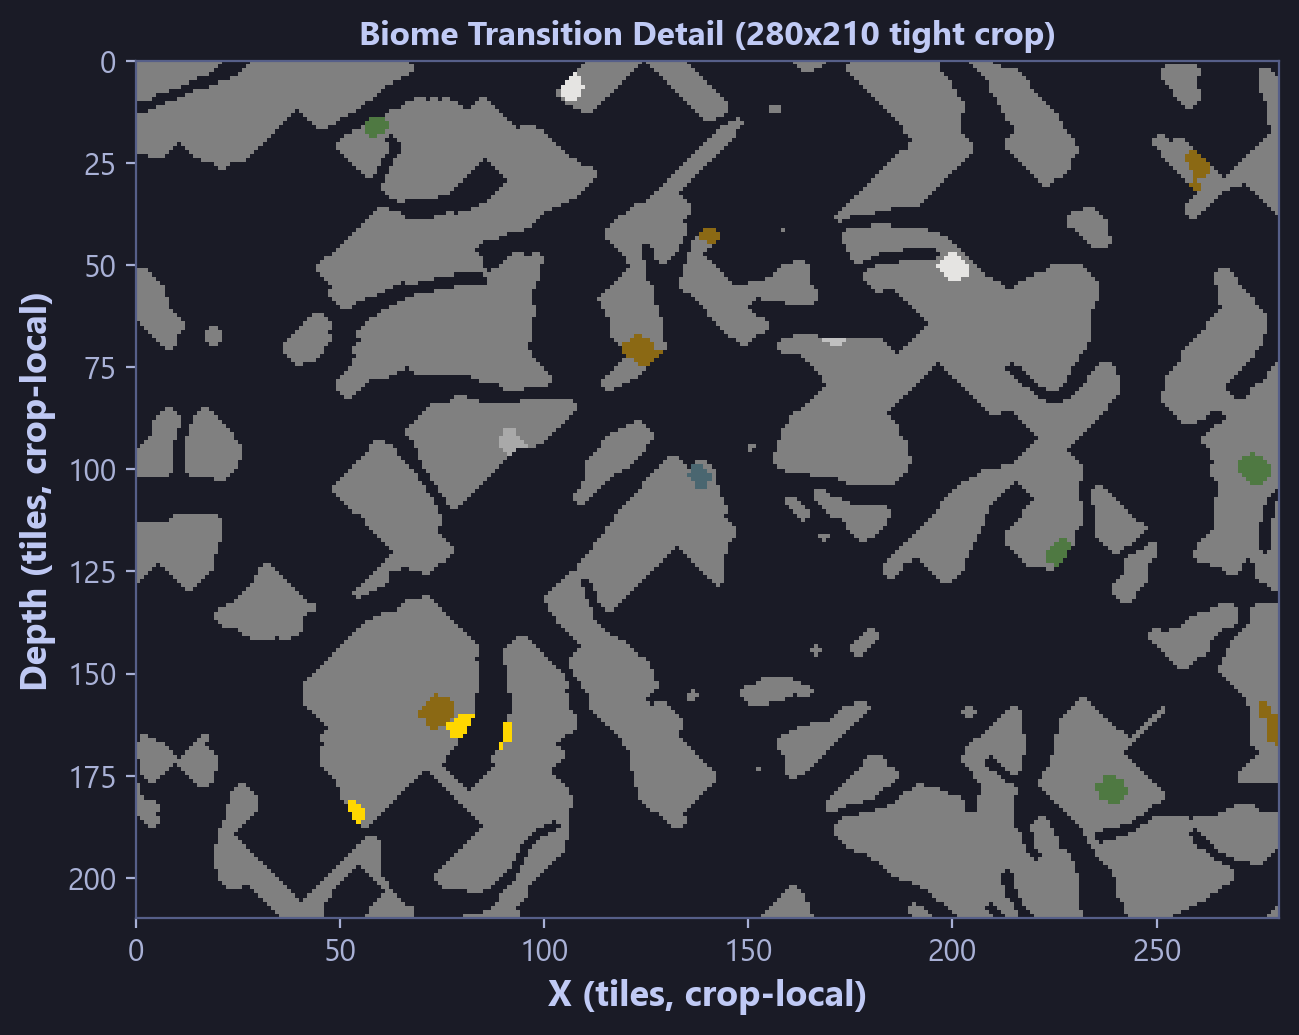
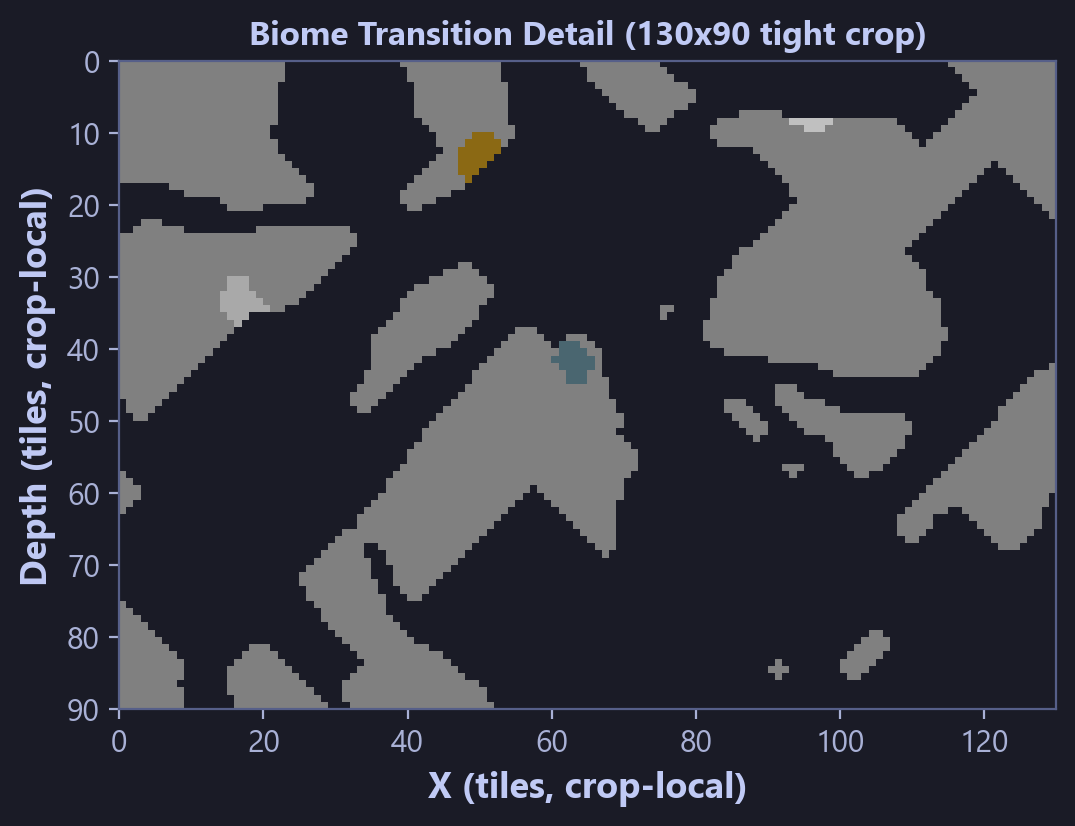
Visual fix sprint v2 (ephemeral): tighter 130x90 crops, single-panel hero GIF, deleted structure placement, fixed corruption animation, README cleanup

diff --git a/Advanced/terrariaWorldGeneration.py b/Advanced/terrariaWorldGeneration.py
@@ -16,7 +16,6 @@ import matplotlib.animation as animation
 import matplotlib.pyplot as plt
 import numpy as np
 from matplotlib.colors import ListedColormap
-from matplotlib.patches import Rectangle as MplRectangle
 
 from Engine.algorithms import (
     AIR,
@@ -594,10 +593,8 @@ def _renderGrid(ax, grid: np.ndarray, title: str, maxId: int) -> None:
 def createWorldGenerationAnimation(saveName: str = "world_generation_animation.gif") -> None:
     """Create a GIF animation stepping through all 23 generation passes.
 
-    Uses an 840x240 1/10-scale world but renders TWO panels per frame:
-    a thin overview strip (so you see ocean + desert + biome bands) and a
-    tight 220x150 detail crop centered at world middle (so individual tiles
-    are readable instead of looking like a beige box).
+    Single-panel tight 140x100 tile crop centered on world middle so
+    individual tiles are readable at every pass.
     """
     print("Generating world at 1/10 scale for animation...")
     gen = TerrariaWorldGenerator(worldWidth=840, worldHeight=240, seed=12345)
@@ -605,37 +602,24 @@ def createWorldGenerationAnimation(saveName: str = "world_generation_animation.g
     snapshots = gen.snapshots
 
     maxId = max(TILE_COLORS.keys())
-    fig = plt.figure(figsize=(11, 6.5))
-    axOverview = fig.add_subplot(2, 1, 1)
-    axDetail = fig.add_subplot(2, 1, 2)
+    detailW, detailH = 140, 100
+    detailX = 350 - detailW // 2
+    detailY = 80 - detailH // 2
 
-    detailW, detailH = 220, 150
-    detailX = 840 // 2 - detailW // 2
-    detailY = 240 // 2 - detailH // 2
+    fig, ax = plt.subplots(figsize=(6, 4.5))
+    ax.set_axis_off()
+    crop0 = snapshots[0][1][detailY:detailY + detailH, detailX:detailX + detailW]
+    im = ax.imshow(crop0, cmap=TERRAIN_CMAP, aspect="equal",
+                   vmin=0, vmax=maxId, interpolation="nearest")
+    titleObj = ax.set_title("", fontsize=11, fontweight="bold")
 
     def animate(frame: int):
-        axOverview.clear()
-        axDetail.clear()
         idx = frame % len(snapshots)
         name, grid = snapshots[idx]
-        # Overview: full world as a wide strip with ocean visible at edges.
-        axOverview.imshow(grid, cmap=TERRAIN_CMAP, aspect="auto",
-                          vmin=0, vmax=maxId, interpolation="nearest")
-        axOverview.set_title(f"Pass {idx}: {name}  (full 1/10 scale: 840x240)",
-                             fontsize=11, fontweight="bold")
-        axOverview.set_xticks([]); axOverview.set_yticks([])
-        # Highlight detail rectangle on overview.
-        axOverview.add_patch(MplRectangle((detailX, detailY), detailW, detailH,
-                                          linewidth=1.2, edgecolor="#7aa2f7",
-                                          facecolor="none"))
-
-        # Detail: tight 220x150 crop, equal aspect so tiles are square.
         crop = grid[detailY:detailY + detailH, detailX:detailX + detailW]
-        axDetail.imshow(crop, cmap=TERRAIN_CMAP, aspect="equal",
-                        vmin=0, vmax=maxId, interpolation="nearest")
-        axDetail.set_title(f"Detail crop ({detailW}x{detailH} at world center)",
-                           fontsize=10)
-        axDetail.set_xticks([]); axDetail.set_yticks([])
+        im.set_data(crop)
+        titleObj.set_text(f"Pass {idx}: {name}  (140x100 crop)")
+        return [im, titleObj]
 
     anim = animation.FuncAnimation(fig, animate, frames=len(snapshots), interval=1500, repeat=True)
     path = _savePath(saveName)

diff --git a/Advanced/terrariaCorruptionEvolution.py b/Advanced/terrariaCorruptionEvolution.py
@@ -575,17 +575,17 @@ def createEvolutionFigure(savePath: str | None = None) -> plt.Figure:
     ]
     snaps = [snapPreHM, snapV, snapSpread1, snapSpread2]
 
-    fig, axes = plt.subplots(2, 2, figsize=(11, 8))
+    fig, axes = plt.subplots(2, 2, figsize=(10, 7))
     for idx, (ax, snap, title) in enumerate(zip(axes.flat, snaps, titles)):
         cropped, bounds = cropSmallWorld(snap, centerX=centerX, centerY=centerY,
-                                         width=260, height=200)
+                                         width=130, height=90)
         drawTileGrid(ax, cropped)
         applyMapDecorations(ax, cropped, layers, cropBounds=bounds)
         ax.set_title(title, fontsize=10, fontweight="bold")
         ax.set_xticks([]); ax.set_yticks([])
 
     fig.suptitle(
-        "Corruption Evolution (260x200 tight crops)",
+        "Corruption Evolution (130x90 tight crops)",
         fontsize=13, fontweight="bold", y=0.995,
     )
     plt.tight_layout(rect=[0, 0, 1, 0.97])
@@ -612,8 +612,9 @@ def createSpreadAnimation(savePath: str | None = None) -> None:
     print("Generating SMALL world for corruption spread GIF...")
     world = generateSmallWorld(seed=20260423, evilType="corruption", compactBiomes=True)
     layers = world.layers
-    centerX = world.spawnX
-    centerY = int((layers.worldSurface + layers.rockLayer) / 2)
+    centerX = world.grid.shape[1] // 2
+    # Center near surface so both V-arms stay within the crop window.
+    centerY = int(layers.worldSurface) + 60
     h0, w0 = world.grid.shape
 
     # Crop helper (no sprite decorations -- fast for animation frames).
@@ -623,7 +624,7 @@ def createSpreadAnimation(savePath: str | None = None) -> None:
     y1 = min(h0, centerY + 100)
 
     def _crop(grid: np.ndarray) -> np.ndarray:
-        return grid[y0:y1, x0:x1]
+        return grid[y0:y1, x0:x1].copy()
 
     sim = TerrariaCorruptionEvolution(
         worldWidth=w0, worldHeight=h0,

diff --git a/Advanced/terrariaCrimsonEvolution.py b/Advanced/terrariaCrimsonEvolution.py
@@ -65,17 +65,17 @@ def createCrimsonEvolutionFigure(savePath: str | None = None) -> plt.Figure:
     ]
     snaps = [snapPreHM, snapV, snapSpread1, snapSpread2]
 
-    fig, axes = plt.subplots(2, 2, figsize=(11, 8))
+    fig, axes = plt.subplots(2, 2, figsize=(10, 7))
     for ax, snap, title in zip(axes.flat, snaps, titles):
         cropped, bounds = cropSmallWorld(snap, centerX=centerX, centerY=centerY,
-                                          width=260, height=200)
+                                          width=130, height=90)
         drawTileGrid(ax, cropped)
         applyMapDecorations(ax, cropped, layers, cropBounds=bounds)
         ax.set_title(title, fontsize=10, fontweight="bold")
         ax.set_xticks([]); ax.set_yticks([])
 
     fig.suptitle(
-        "Crimson Evolution (260x200 tight crops)",
+        "Crimson Evolution (130x90 tight crops)",
         fontsize=13, fontweight="bold", y=0.995,
     )
     plt.tight_layout(rect=[0, 0, 1, 0.97])
@@ -99,9 +99,9 @@ def createCrimsonSpreadAnimation(savePath: str | None = None) -> None:
     print("Generating SMALL world for crimson spread GIF...")
     world = generateSmallWorld(seed=20260424, evilType="crimson", compactBiomes=True)
     layers = world.layers
-    centerX = world.spawnX
-    centerY = int((layers.worldSurface + layers.rockLayer) / 2)
     h0, w0 = world.grid.shape
+    centerX = w0 // 2
+    centerY = int(layers.worldSurface) + 60
 
     x0 = max(0, centerX - 130)
     x1 = min(w0, centerX + 130)
@@ -109,7 +109,7 @@ def createCrimsonSpreadAnimation(savePath: str | None = None) -> None:
     y1 = min(h0, centerY + 100)
 
     def _crop(grid: np.ndarray) -> np.ndarray:
-        return grid[y0:y1, x0:x1]
+        return grid[y0:y1, x0:x1].copy()
 
     sim = TerrariaCorruptionEvolution(
         worldWidth=w0, worldHeight=h0,

diff --git a/Code/terrariaOreDistribution.py b/Code/terrariaOreDistribution.py
@@ -85,7 +85,7 @@ def createOreDistributionFigure(savePath: str) -> None:
         ("Late Hardmode (9 altars smashed)", generateSmallWorld(seed=seed, altarsSmashed=9)),
     ]
 
-    fig, axes = plt.subplots(1, 3, figsize=(15, 5.5))
+    fig, axes = plt.subplots(1, 3, figsize=(12, 4.5))
     for ax, (title, world) in zip(axes, worlds):
         layers = world.layers
         # Center deep enough to span rock layer to hellstone band.
@@ -93,7 +93,7 @@ def createOreDistributionFigure(savePath: str) -> None:
         centerY = int((layers.rockLayer + layers.hellLayer) / 2)
         cropped, bounds = cropSmallWorld(
             world.grid, centerX=centerX, centerY=centerY,
-            width=260, height=200,
+            width=130, height=90,
         )
         drawTileGrid(ax, cropped)
         applyMapDecorations(ax, cropped, layers, cropBounds=bounds,
@@ -106,7 +106,7 @@ def createOreDistributionFigure(savePath: str) -> None:
         ax.set_ylabel("Depth (tiles)")
 
     fig.suptitle(
-        "Ore Distribution (260x200 tight crops, SMALL world)",
+        "Ore Distribution (130x90 tight crops, SMALL world)",
         fontsize=13, fontweight="bold", y=1.0,
     )
     plt.tight_layout()

diff --git a/Advanced/terrariaHardmodeStructures.py b/Advanced/terrariaHardmodeStructures.py
@@ -501,10 +501,10 @@ def visualize(sim: TerrariaHardmodeTransformation,
         (worldHM.grid, "Panel 3: Post-Altar x9 (Full HM Ores)"),
     ]
 
-    fig, axes = plt.subplots(1, 3, figsize=(24, 9))
+    fig, axes = plt.subplots(1, 3, figsize=(12, 4.5))
     for ax, (snap, title) in zip(axes, panels):
         cropped, bounds = cropSmallWorld(snap, centerX=centerX, centerY=centerY,
-                                          width=600, height=500)
+                                          width=130, height=90)
         drawTileGrid(ax, cropped)
         applyMapDecorations(ax, cropped, layers, cropBounds=bounds)
         ax.set_title(title, fontsize=11, fontweight="bold")
@@ -512,7 +512,7 @@ def visualize(sim: TerrariaHardmodeTransformation,
         ax.set_ylabel("Depth (tiles, crop-local)")
 
     fig.suptitle(
-        "Hardmode Transformation (600x500 SMALL-World Crop)",
+        "Hardmode Transformation (130x90 SMALL-World Crop)",
         fontsize=14, fontweight="bold",
     )
     plt.tight_layout()

diff --git a/Code/terrariaBiomeAnalysis.py b/Code/terrariaBiomeAnalysis.py
@@ -91,10 +91,10 @@ def createBiomeTransitionDetail(savePath: str) -> None:
 
     cropped, bounds = cropSmallWorld(
         world.grid, centerX=centerX, centerY=centerY,
-        width=280, height=210,
+        width=130, height=90,
     )
 
-    fig, ax = plt.subplots(figsize=(7, 5.3))
+    fig, ax = plt.subplots(figsize=(5.5, 4.2))
     drawTileGrid(ax, cropped)
     applyMapDecorations(ax, cropped, layers, cropBounds=bounds)
 
@@ -104,7 +104,7 @@ def createBiomeTransitionDetail(savePath: str) -> None:
     ax.set_xlabel("X (tiles, crop-local)", fontweight="bold")
     ax.set_ylabel("Depth (tiles, crop-local)", fontweight="bold")
     ax.set_title(
-        "Biome Transition Detail (280x210 tight crop)",
+        "Biome Transition Detail (130x90 tight crop)",
         fontsize=12, fontweight="bold",
     )
     plt.tight_layout()

diff --git a/README.md b/README.md
@@ -68,12 +68,6 @@ Three-panel detail at FEATURE_PLOT scale (500x300): pre-Hardmode veins, post-alt
 
 Depth-density profiles showing tile counts per row, with Tokyo Night layer boundary markers.
 
-### Structure Placement
-
-![Structure Placement](Plots/terraria_structure_density.png)
-
-600x500 crop of a SMALL (4200x1200) world with game-accurate structure overlays rendered via `Engine.spriteRenderer` composer primitives: Underground Cabins (doors, chests, torches), Floating Island (lens-shaped grass body), Pyramid (sandstone-brick silhouette with hidden chamber), and Dungeon corner (interlocking brick rooms). StructureMap exclusion zones prevent placement overlap. Standard grass-strip and layer-marker decorations annotate worldSurface, rockLayer, and hellLayer boundaries.
-
 
 ## Advanced Simulations
 
@@ -124,7 +118,6 @@ Code/                                # Visualization scripts (FEATURE_PLOT and D
     terrariaBiomeAnalysis.py         # LARGE biome layout + DETAIL_PLOT sprite-rendered biome transition
     terrariaNoiseSystems.py          # Surface terrain (4 biomes) + cave systems + tile conversion
     terrariaOreDistribution.py       # 3-panel ore distribution with vein-detail luster crop + depth density
-    terrariaStructureGeneration.py   # Macro density scatter + 4-panel sprite detail
     Excess/
         terrariaLiquidPhysics.py     # Liquid settling simulation
 Advanced/                            # Full-scale simulations
@@ -202,26 +195,20 @@ the local percolation below $p_c$ and halts spread deterministically.
 After cavinator carves raw voids, several majority-rule CA passes shape the
 caverns into the lacy organic look characteristic of Terraria. Each cell
 $s_i \in \{0, 1\}$ (solid / air) updates from its 8-neighbor Moore
-neighborhood $\mathcal{N}_8(i)$ via separate birth and death thresholds:
+neighborhood $\mathcal{N}_8(i)$ via separate birth and death thresholds.
 
-$$s_i^{(t+1)} = \begin{cases} 1 & \text{(solid)} \quad \text{if } s_i^{(t)} = 1 \text{ and } n_i^{(t)} \geq d \\ 1 & \text{(solid)} \quad \text{if } s_i^{(t)} = 0 \text{ and } n_i^{(t)} > b \\ 0 & \text{(air)} \quad \text{otherwise} \end{cases}$$
+A solid cell survives when it has at least $d = 4$ solid neighbors:
 
-where $n_i^{(t)} = \sum_{j \in \mathcal{N}_8(i)} s_j^{(t)}$ is the solid
-neighbor count, $b = 5$ is the birth threshold (air becomes solid only when
-densely surrounded), and $d = 4$ is the death threshold (solid erodes when
-fewer than $d$ neighbors are solid). This rule minimizes a surface-tension
-energy functional $E[s] = \sum_{\langle i,j \rangle} (s_i - s_j)^2$ subject
-to a majority constraint, removing isolated spurs and growing chambers
-without collapsing the cave network. Five iterations match the smoothing
-pass documented in decompiled `WorldGen.cs`.
+$$s_i^{(t+1)} = 1 \quad \text{if} \quad s_i^{(t)} = 1 \text{ and } n_i^{(t)} \geq 4$$
+
+An air cell becomes solid when more than $b = 5$ neighbors are solid:
+
+$$s_i^{(t+1)} = 1 \quad \text{if} \quad s_i^{(t)} = 0 \text{ and } n_i^{(t)} > 5$$
+
+Otherwise $s_i^{(t+1)} = 0$ (air). Here $n_i^{(t)} = \sum_{j \in \mathcal{N}_8(i)} s_j^{(t)}$ is the solid
+neighbor count.
 
 ---
-
-## References
-
-- Decompiled `WorldGen.cs` from Terraria source (Re-Logic)
-- Perlin, K. (1985). "An Image Synthesizer". Computer Graphics, 19(3), 287-296
-- See [References/worldgen-research.md](References/worldgen-research.md) for full research notes
 
 ## License
 
